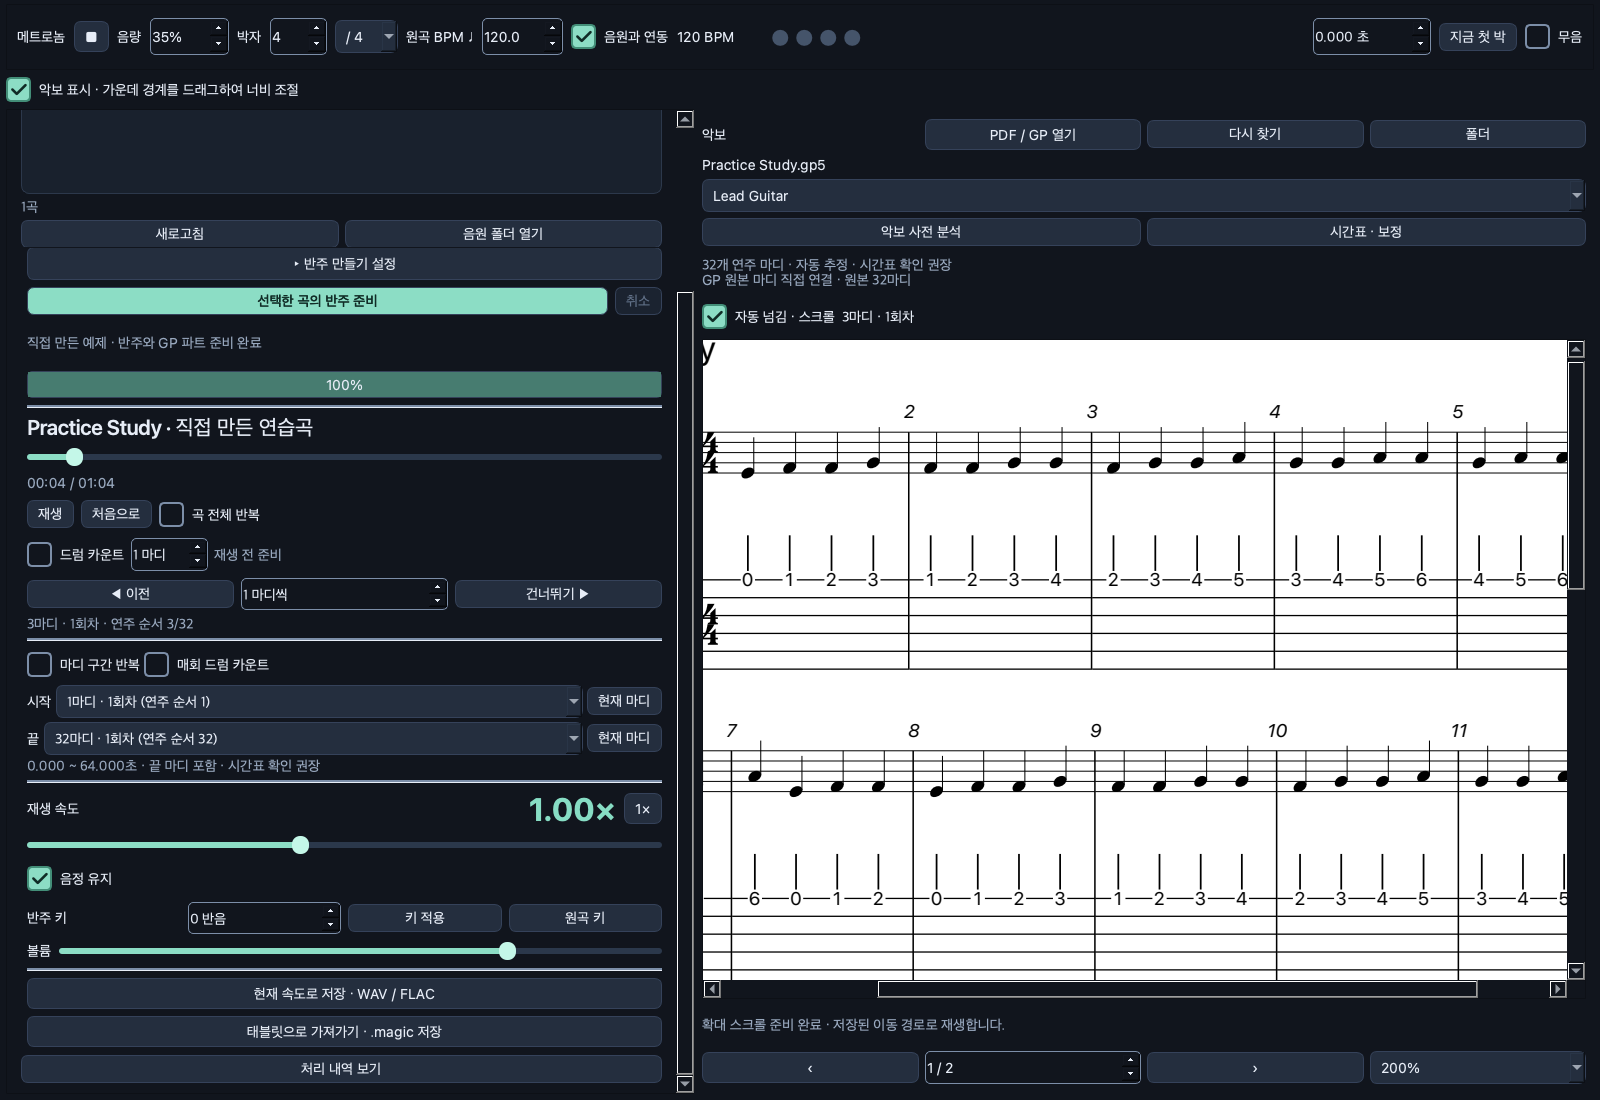
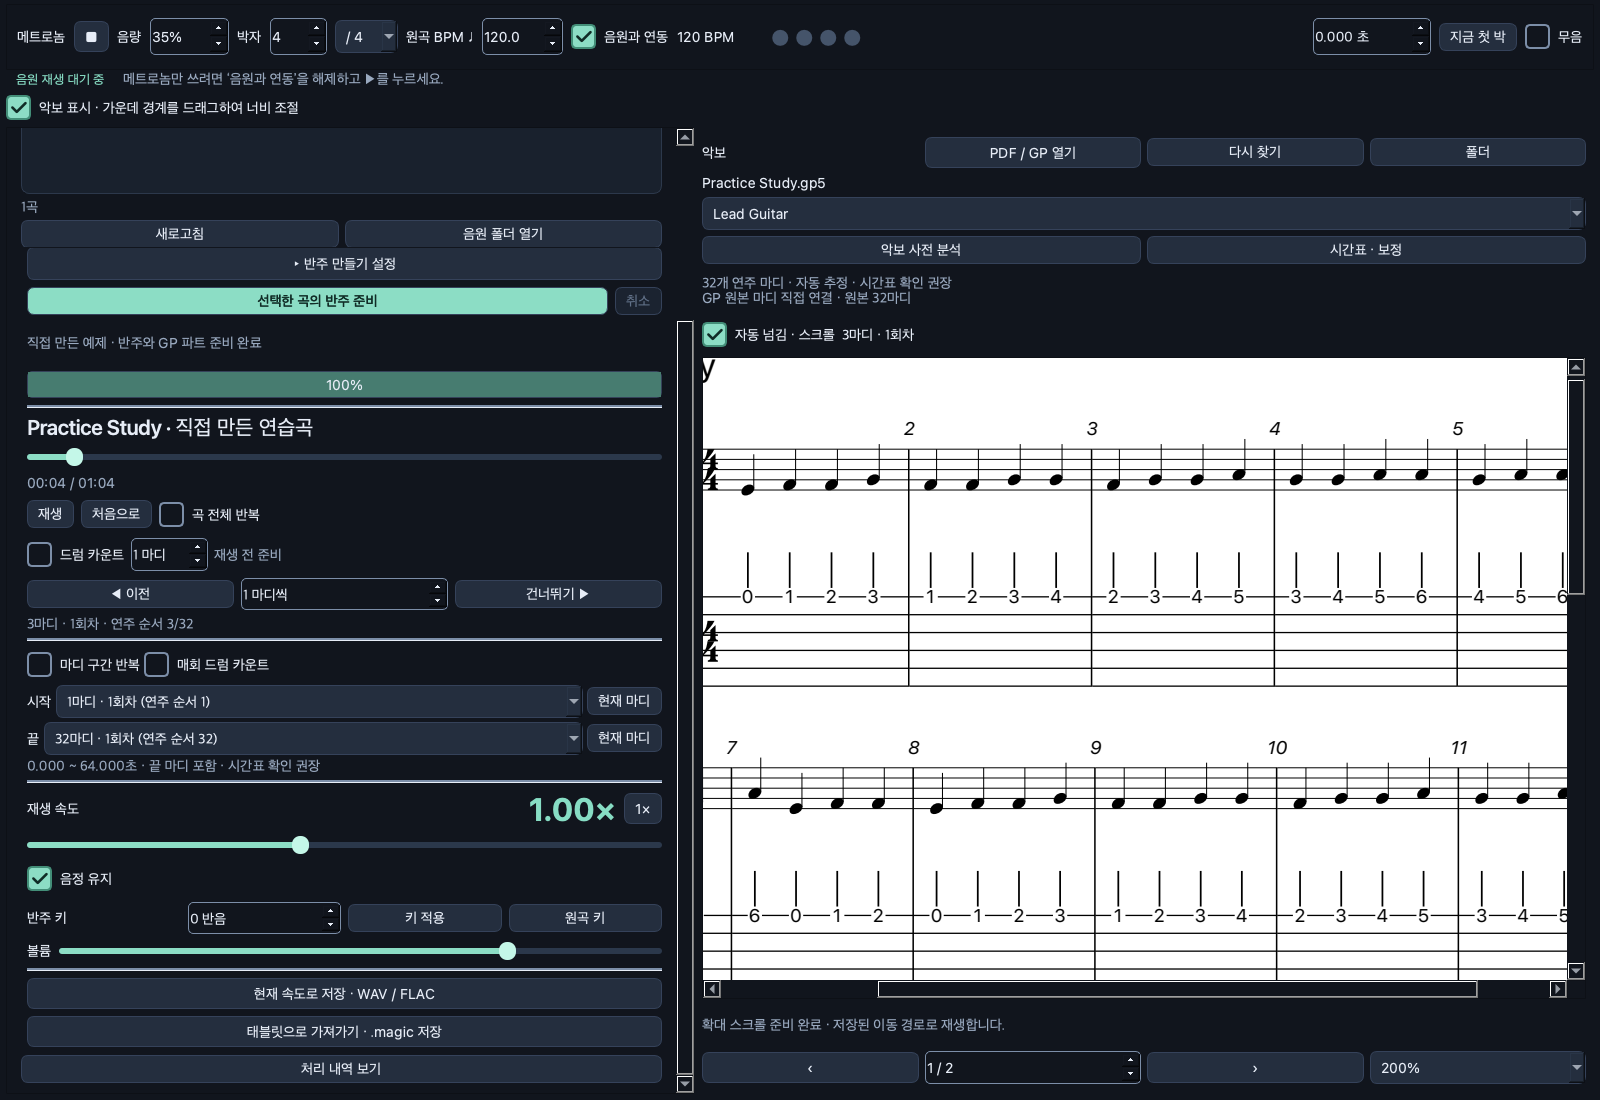
v2.0.3: show desktop standalone metronome guidance and playback state

diff --git a/practice_player/metronome.py b/practice_player/metronome.py
@@ -17,7 +17,9 @@ from PySide6.QtWidgets import (
     QHBoxLayout,
     QLabel,
     QPushButton,
+    QScrollArea,
     QSpinBox,
+    QVBoxLayout,
     QWidget,
 )
 
@@ -98,7 +100,11 @@ class MetronomeBar(QWidget):
             effect = QSoundEffect(self)
             effect.setSource(QUrl.fromLocalFile(str(path)))
             self.sounds.append(effect)
-        row = QHBoxLayout(self)
+        layout = QVBoxLayout(self)
+        layout.setContentsMargins(0, 0, 0, 0)
+        layout.setSpacing(2)
+        controls = QWidget()
+        row = QHBoxLayout(controls)
         row.setContentsMargins(10, 4, 10, 4)
         row.setSpacing(8)
         row.addWidget(QLabel("메트로놈"))
@@ -141,7 +147,9 @@ class MetronomeBar(QWidget):
         self.bpm.setAccessibleName("BPM 또는 연동 시 원곡 BPM")
         row.addWidget(self.bpm)
         self.linked = QCheckBox("음원과 연동")
-        self.linked.setToolTip("체크하면 클릭을 준비하고 음원 시작·탐색·반복·배속을 따라갑니다.")
+        self.linked.setToolTip(
+            "체크하면 음원 시작·탐색·반복·배속을 따라갑니다. 단독 사용 시에는 해제하세요."
+        )
         row.addWidget(self.linked)
         self.effective = QLabel("120 BPM")
         self.effective.setMinimumWidth(85)
@@ -168,6 +176,26 @@ class MetronomeBar(QWidget):
         self.mute = QCheckBox("무음")
         self.mute.setToolTip("선택한 음량은 유지하고 클릭 소리만 잠시 끕니다.")
         row.addWidget(self.mute)
+        scroll = QScrollArea()
+        scroll.setWidget(controls)
+        scroll.setWidgetResizable(True)
+        scroll.setFixedHeight(66)
+        scroll.setVerticalScrollBarPolicy(Qt.ScrollBarPolicy.ScrollBarAlwaysOff)
+        layout.addWidget(scroll)
+        # Keep status/help outside the horizontal scroller, visible in narrow windows.
+        info = QHBoxLayout()
+        info.setContentsMargins(10, 0, 10, 2)
+        info.setSpacing(18)
+        self.state_label = QLabel("꺼짐")
+        self.state_label.setObjectName("metronomeState")
+        self.state_label.setAccessibleName("메트로놈 현재 상태")
+        self.state_label.setWordWrap(True)
+        info.addWidget(self.state_label)
+        self.help_label = QLabel("메트로놈만 쓰려면 ‘음원과 연동’을 해제하고 ▶를 누르세요.")
+        self.help_label.setObjectName("muted")
+        self.help_label.setWordWrap(True)
+        info.addWidget(self.help_label, 1)
+        layout.addLayout(info)
         self.volume.valueChanged.connect(self.update_volume)
         self.mute.toggled.connect(self.update_volume)
         self.update_volume()
@@ -250,6 +278,7 @@ class MetronomeBar(QWidget):
             self.silence()
         if self.preferences is not None:
             self.preferences.setValue("metronome/volume", self.volume.value())
+        self.update_status()
 
     def align_now(self):
         self.origin.setValue(self.media_seconds(time.monotonic()))
@@ -268,6 +297,30 @@ class MetronomeBar(QWidget):
     def update_label(self):
         rate = self.player.playbackRate() if self.linked.isChecked() else 1
         self.effective.setText(f"{self.bpm.value() * rate:g} BPM")
+        self.update_status()
+
+    def update_status(self):
+        """Describe the existing transport state without changing its beat clock."""
+        if self.count_in_active:
+            text = "드럼 카운트 중"
+        elif not self.enabled:
+            text = "꺼짐"
+        elif not self.linked.isChecked():
+            text = "단독 재생 중"
+        elif (self.seeking or self.suspended
+              or self.player.playbackState() != QMediaPlayer.PlaybackState.PlayingState):
+            text = "음원 재생 대기 중"
+        elif self.media_seconds(time.monotonic()) < self.origin.value():
+            text = "음원의 첫 박 대기 중"
+        else:
+            text = "음원과 함께 재생 중"
+        if self.enabled or self.count_in_active:
+            if self.mute.isChecked():
+                text += " · 무음"
+            elif self.volume.value() == 0:
+                text += " · 음량 0%"
+        if self.state_label.text() != text:
+            self.state_label.setText(text)
 
     def set_running(self, running):
         self.enabled = running
@@ -283,6 +336,7 @@ class MetronomeBar(QWidget):
             self.timer.stop()
             self.paint_beat(None)
             self.silence()
+        self.update_status()
 
     def reanchor(self, milliseconds):
         self.anchor_position = milliseconds / 1000
@@ -300,6 +354,7 @@ class MetronomeBar(QWidget):
         self.seeking = True
         if self.linked.isChecked():
             self.silence()
+        self.update_status()
 
     def end_seek(self, milliseconds):
         self.seeking = False
@@ -309,6 +364,7 @@ class MetronomeBar(QWidget):
             self.last_beat = None
             self.paint_beat(None)
             self.tick()
+        self.update_status()
 
     def anchor(self, milliseconds):
         if self.seeking:
@@ -357,6 +413,7 @@ class MetronomeBar(QWidget):
             self.silence()
             self.last_beat = None
             self.paint_beat(None)
+        self.update_status()
 
     def paint_beat(self, beat):
         for i, dot in enumerate(self.dot_labels):
@@ -372,8 +429,10 @@ class MetronomeBar(QWidget):
             self.reanchor(self.player.position())
             if self.linked.isChecked():
                 self.scheduler.reset()
+        self.update_status()
 
     def tick(self):
+        self.update_status()
         if not self.enabled or self.count_in_active:
             return
         now = time.monotonic()

diff --git a/tests/test_metronome.py b/tests/test_metronome.py
@@ -51,11 +51,14 @@ def test_independent_linked_pause_seek_and_rate(monkeypatch):
     bar = MetronomeBar(transport)
     bar.mute.setChecked(True)
     try:
+        assert bar.state_label.text() == "꺼짐"
         bar.toggle.setChecked(True)
+        assert bar.state_label.text() == "단독 재생 중 · 무음"
         now[0] += 0.5
         bar.tick()
         assert bar.last_beat == 1  # independent while audio paused
         bar.linked.setChecked(True)
+        assert bar.state_label.text() == "음원 재생 대기 중 · 무음"
         bar.bpm.setValue(107)
         transport.rate = 0.75
         transport.playbackRateChanged.emit(0.75)
@@ -65,6 +68,7 @@ def test_independent_linked_pause_seek_and_rate(monkeypatch):
         assert bar.last_beat is None
         transport.playing = True
         transport.playbackStateChanged.emit(transport.playbackState())
+        assert bar.state_label.text() == "음원과 함께 재생 중 · 무음"
         now[0] += 60 / 80.25
         bar.tick()
         assert bar.last_beat == 1
@@ -74,6 +78,7 @@ def test_independent_linked_pause_seek_and_rate(monkeypatch):
         assert bar.last_beat == 107  # seek uses media time, not media time * rate
         transport.playing = False
         transport.playbackStateChanged.emit(transport.playbackState())
+        assert bar.state_label.text() == "음원 재생 대기 중 · 무음"
         now[0] += 10
         bar.tick()
         assert bar.last_beat is None
@@ -83,6 +88,7 @@ def test_independent_linked_pause_seek_and_rate(monkeypatch):
         bar.tick()
         assert bar.last_beat == 0
         assert bar.effective.text() == "107 BPM"
+        assert bar.state_label.text() == "단독 재생 중 · 무음"
     finally:
         bar.shutdown()
         bar.close()
@@ -175,16 +181,19 @@ def test_link_checkbox_arms_start_and_first_beat_offset(monkeypatch):
         assert bar.enabled and bar.toggle.isChecked()
         assert sum(s.played for s in bar.sounds) == 0
         start_clock(transport)
+        assert bar.state_label.text() == "음원의 첫 박 대기 중"
         now[0] += 1
         bar.tick()
         assert sum(s.played for s in bar.sounds) == 0
         now[0] += 0.25
         bar.tick()
         assert bar.last_beat == 0 and bar.sounds[1].played == 1
+        assert bar.state_label.text() == "음원과 함께 재생 중"
         now[0] += 0.5
         bar.tick()
         assert bar.last_beat == 1 and bar.sounds[0].played == 1
         bar.toggle.setChecked(False)
+        assert bar.state_label.text() == "꺼짐"
         transport.playing = False
         transport.playbackStateChanged.emit(transport.playbackState())
         start_clock(transport)

diff --git a/practice_player/gui.py b/practice_player/gui.py
@@ -48,6 +48,7 @@ QWidget { background: #11151d; color: #e7edf7; font-size: 14px; }
 QMainWindow { background: #11151d; }
 QLabel#title { font-size: 26px; font-weight: 700; }
 QLabel#subtitle, QLabel#muted { color: #99a9bf; }
+QLabel#metronomeState { color: #87ddc4; font-size: 13px; font-weight: 600; }
 QLabel#track { font-size: 21px; font-weight: 600; }
 QLabel#speed { color: #87ddc4; font-size: 32px; font-weight: 700; }
 QPushButton, QComboBox { background: #242e3e; border: 1px solid #35425a;
@@ -383,16 +384,11 @@ class Window(QMainWindow):
             lambda *_: self.preferences.setValue("splitter", self.main_splitter.saveState())
         )
         self.score_panel.bpm_provider = lambda: self.metronome.bpm.value()
-        top = QScrollArea()
-        top.setWidget(self.metronome)
-        top.setWidgetResizable(True)
-        top.setFixedHeight(66)
-        top.setVerticalScrollBarPolicy(Qt.ScrollBarPolicy.ScrollBarAlwaysOff)
         container = QWidget()
         outer = QVBoxLayout(container)
         outer.setContentsMargins(6, 4, 6, 6)
         outer.setSpacing(3)
-        outer.addWidget(top)
+        outer.addWidget(self.metronome)
         self.score_visible = QCheckBox("악보 표시 · 가운데 경계를 드래그하여 너비 조절")
         self.score_visible.setChecked(self.preferences.value("score_visible", True, type=bool))
         self.score_panel.setVisible(self.score_visible.isChecked())

diff --git a/tests/test_gui.py b/tests/test_gui.py
@@ -101,12 +101,14 @@ def test_click_volume_is_independent_persistent_and_does_not_restart_beats(tmp_p
         bar.tick()
         assert bar.last_beat == 2  # changing gain did not restart the clock
         bar.mute.setChecked(True)
+        assert bar.state_label.text() == "단독 재생 중 · 무음"
         assert bar.volume.value() == 75 and all(sound.volume() == 0 for sound in bar.sounds)
         bar.volume.setValue(80)
         assert all(sound.volume() == 0 for sound in bar.sounds)
         bar.mute.setChecked(False)
         assert all(abs(sound.volume() - 0.8) < 0.001 for sound in bar.sounds)
         bar.volume.setValue(0)
+        assert bar.state_label.text() == "단독 재생 중 · 음량 0%"
         now[0] += 0.5
         bar.tick()
         assert bar.last_beat == 3 and all(sound.volume() == 0 for sound in bar.sounds)
@@ -143,6 +145,7 @@ def test_real_player_count_in_delays_play_cancels_and_remembers_mode(tone, tmp_p
         count.enabled.setChecked(True)
         window.toggle_play()
         assert count.active and window.player.position() == 0
+        assert window.metronome.state_label.text() == "드럼 카운트 중 · 무음"
         assert window.play_button.text() == "카운트 취소"
         assert window.player.playbackState() != QMediaPlayer.PlaybackState.PlayingState
         wait_until(app, lambda: window.player.isPlaying())

diff --git a/practice_player/__init__.py b/practice_player/__init__.py
@@ -1,4 +1,4 @@
 # SPDX-License-Identifier: GPL-3.0-only
 """Magic-Instrumental: local instrumental practice player (GPL-3.0-only)."""
 
-__version__ = "2.0.2"
+__version__ = "2.0.3"

diff --git a/AI_CODER_README.md b/AI_CODER_README.md
@@ -1,6 +1,6 @@
 # AI Coder handoff — Magic-Instrumental
 
-Public release: **2.0.2**. Read `README.md`, `AGENTS.md`, and `CONTRIBUTING.md` before changes. This document intentionally contains no user recordings, score contents, personal paths, or private verification data.
+Public release: **2.0.3**. Read `README.md`, `AGENTS.md`, and `CONTRIBUTING.md` before changes. This document intentionally contains no user recordings, score contents, personal paths, or private verification data.
 
 ## Product requirements
 
@@ -113,6 +113,8 @@ PDFium renders at the chosen zoom with bounded source image size and a 3-page pi
 Measure seeking uses `ScoreTimeline.playable_measures(duration)` and `measure_target(media_seconds, delta, duration)`. Add ±N to **visit index**, not printed bar number. Handle intro/outro, partial first cue, offset and track bounds. Seek to `ceil(seconds * 1000)` to avoid landing immediately before a fractional boundary. Keep play/pause state unchanged. The score panel's `timeline_changed` signal updates button availability.
 
 ## Metronome
+
+Desktop v2.0.3: `MetronomeBar` owns the horizontally scrollable controls and a separate always-visible help/status row. The hint explains clearing `음원과 연동` for standalone use. `update_status()` derives off, standalone, waiting for playback, linked playback, first-beat wait and count-in states, plus mute/zero-volume suffixes, from existing transport fields. It runs on relevant signals and ticks, only updates changed label text, and must never reset the beat clock or start audio. Keep the help/status row outside the horizontal scroller and readable in both themes at the minimum window size. The mobile player remains v2.0.2 for this desktop-only change.
 
 Synthesized 30 ms clicks via QSoundEffect; dedicated 0–100% click volume (default 35%) and mute, independent of QAudioOutput music gain. `MetronomeBar` accepts the window QSettings through `preferences=`; persist integer percent under `metronome/volume` in `processed/ui.ini`, globally across tracks, including standalone use. Missing/invalid saved values fall back to 35%. Mute applies zero effective gain while retaining the selected value. Zero gain stops pending clicks and skips new audio dispatch; visual beats continue. Volume/mute changes must never reset the scheduler or alter the music output. Meter numerator 1–12, denominator 2/4/8/16; quarter-note BPM 20–400. Independent monotonic clock or media anchor + elapsed × rate; 5 ms precise timer detects boundaries rather than accumulating tick counts. Late ticks/seek jumps must not burst queued clicks. Pause/stop silence the linked clock. Fixed entered tempo only; no automatic tempo/meter change tracking or sample-accurate audio synchronization.
 

diff --git a/docs/USER_GUIDE.md b/docs/USER_GUIDE.md
@@ -97,6 +97,10 @@ PDF 자체에서 용지 크기와 방향, 5선/6선 보표, 마디 경계를 먼
 
 ## 메트로놈
 
+**단독으로 쓰려면 ‘음원과 연동’을 해제한 뒤 메트로놈의 ▶를 누르세요.** 음원 파일을 준비하지 않아도 됩니다. 상단 조작 줄 아래에 이 안내가 항상 표시됩니다.
+
+현재 상태는 **꺼짐 / 단독 재생 중 / 음원 재생 대기 중 / 음원과 함께 재생 중**으로 표시합니다. 음원을 일시정지하면 연동된 메트로놈도 **음원 재생 대기 중**이 됩니다. 첫 박 전이나 드럼 카운트 중에는 해당 상태가 표시되고, **무음 / 음량 0%**도 함께 표시합니다.
+
 상단의 ▶/■로 켜고 끕니다. 옆의 **음량**에서 클릭 크기를 0~100%로 조절합니다(기본 35%). 음원 볼륨과 독립적이며, 곡 변경·앱 재실행 후에도 유지됩니다. **무음**을 해제하면 선택한 음량으로 돌아옵니다. 0% 또는 무음에서도 박자 원형 표시는 계속 움직이며, 음량 변경은 박자 시계를 다시 시작하지 않습니다. 음원 없이도 단독 사용이 가능합니다. 박자 분자 1~12에 맞춰 원을 표시하며, 첫 박을 색과 높은 음으로 강조합니다. 분모는 2/4/8/16이고 BPM은 항상 4분음표 기준 20~400입니다. 예를 들어 6/8은 여섯 개의 8분음표 박을 표시합니다.
 
 **음원과 연동**을 체크하면 입력칸은 원곡 BPM을 뜻합니다. 원곡 120 BPM × 0.75배속이면 90 BPM으로 움직이며 원곡 입력값은 바뀌지 않습니다. 체크하면 메트로놈이 대기 상태가 되고 음원을 재생할 때 함께 시작합니다. 음원이 정지·일시정지되면 클릭도 멈춥니다. 연동 중 클릭만 끄려면 메트로놈의 ■를 누르고, 다시 켜려면 ▶를 누르세요. 독립 모드는 음원 배속의 영향을 받지 않습니다.

diff --git a/README.en.md b/README.en.md
@@ -23,6 +23,8 @@ The installer prepares Python, dependencies, FFmpeg, Audiveris, Java, English OC
 
 Applied desktop key changes are included in the exported audio. The web player can add another ±12 semitones; the default is zero additional shift. Original printed notes/TAB are not transposed. PDF recognition and audio alignment can require manual correction. GPX and GP6/7/8 are currently unsupported. Drum parts use fixed-BPM timing.
 
+**Desktop metronome alone:** uncheck ‘음원과 연동’ (link to audio), then press its ▶ button. No song is required. An always-visible hint and status show standalone playback, waiting for audio, linked playback, or other waiting states; mute and zero volume are also indicated.
+
 For iPad/Android, [open Magic Player](https://jeongwoo-gobroad.github.io/Magic-Instrumental/) in Safari/Chrome and add it to the home screen. After offline preparation, it works without internet; songs remain local. Direct HTML opening on iPad's Files app is not reliable. Keep the player visible during practice; backgrounding pauses playback. [Tablet instructions](web_player/README.md)
 
 **To use the mobile metronome alone, uncheck ‘반주와 함께’ (with accompaniment), then turn it on.** No song file is required. With that box checked, clicks wait until the accompaniment plays; the header shows the waiting state.

diff --git a/CHANGELOG.md b/CHANGELOG.md
@@ -1,5 +1,11 @@
 # Changelog
 
+## 2.0.3 — 2026-11-19
+
+- 데스크톱 메트로놈에 ‘단독 사용 시 음원과 연동 해제’ 안내를 항상 표시합니다. 좁은 창에서 조작 줄을 가로로 움직여도 안내는 유지됩니다.
+- 꺼짐·단독 재생·음원 재생 대기·음원과 함께 재생·첫 박 대기·드럼 카운트 상태를 표시하고, 무음·음량 0%도 함께 알립니다.
+- 데스크톱 사용 안내와 실제 화면 캡처를 갱신했습니다. 메트로놈의 박자·연동 동작은 기존과 같습니다.
+
 ## 2.0.2 — 2026-11-19
 
 - 모바일 메트로놈 옆에 ‘단독 사용 시 반주와 함께 해제’ 안내와 꺼짐·반주 대기·단독 재생·음량 0 상태를 표시합니다. README에도 단독 사용 순서를 추가했습니다.
